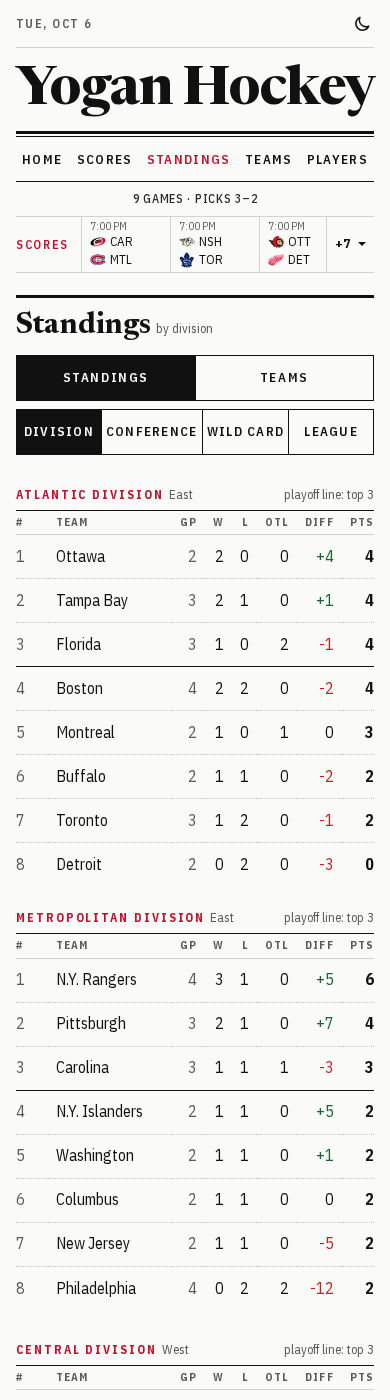
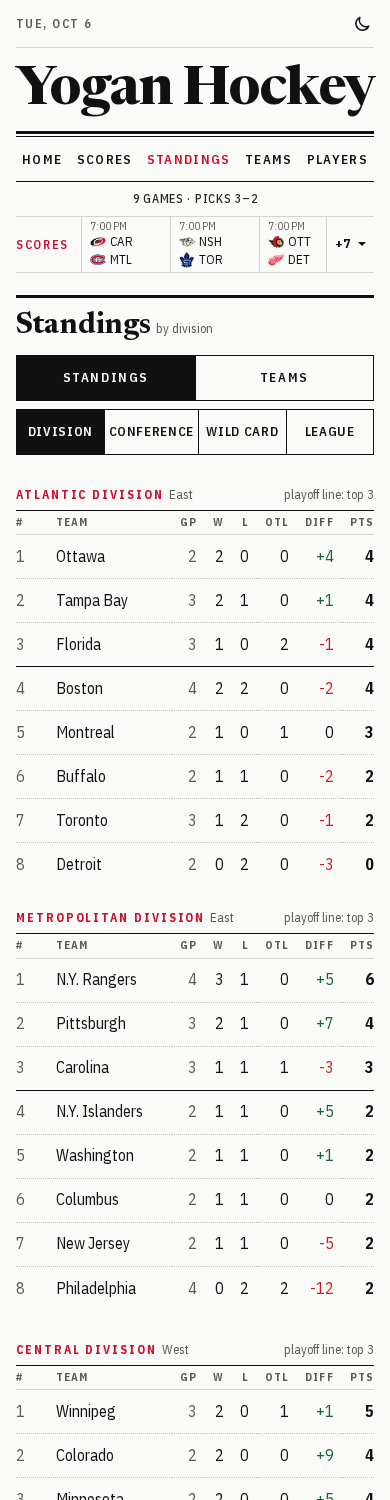
After Home: #171's type tokens, no tint on a live row, a headline's mark, the Scores stamp's line held, four tabs in 360px (#173)
- components/agate-type.ts is gone: the team's name is text-headline, an empty state text-prose, the red line sectionLabel.
- LedgerRow live marks the row and fills nothing; the routes' bg-transparent overrides are gone.
- TeamMark size="headline" (0.72em, on the capitals' line); size="header" is unchanged.
- ScoresTitle is the Scores header in the page and its placeholder: the "updated" line is there on a phone before the socket speaks.
- The standings' view tabs fit a 360px phone.
- The team's heart ends on the column's edge.
- agate-routes.mjs: all four standings views, a 360px check, sixteen shots kept and the rest to a scratch directory.

diff --git a/apps/web/components/scoreboard/live-scores.tsx b/apps/web/components/scoreboard/live-scores.tsx
@@ -7,7 +7,6 @@ import { slateDay } from "../../lib/game-time";
 import { pickNote } from "../../lib/picks";
 import { slateSections } from "../../lib/scoreboard-view";
 import { useFavorites } from "../../lib/use-favorites";
-import { PROSE } from "../agate-type";
 import { LocalTime } from "../local-time";
 import { GameLedger } from "./game-ledger";
 import { useScoreboard } from "./scoreboard-provider";
@@ -35,6 +34,30 @@ function Games({ title, games, picks }: { title: string; games: ScoreboardGame[]
 }
 
 /**
+ * The page's title, with the day's count and when the Scoreboard last heard from ESPN. On a phone
+ * the "updated" stamp has a line of its own under the title, and the line is there before there
+ * is anything to put on it: the placeholder (`LiveSkeleton`) draws this with nothing given, so
+ * the page does not move when the socket first speaks.
+ */
+export function ScoresTitle({ count, heardAt }: { count?: string; heardAt?: string | null }) {
+  return (
+    <PageHeader
+      title="Live scores"
+      count={count || undefined}
+      className="max-md:[&>[data-slot=page-aside]]:w-full"
+    >
+      <p className="font-quiet text-aside max-md:min-h-[1lh]">
+        {heardAt && (
+          <>
+            updated <LocalTime at={heardAt} show="clock" />
+          </>
+        )}
+      </p>
+    </PageHeader>
+  );
+}
+
+/**
  * `/nhl/live`: today's games by where each stands, kept current by the Scoreboard socket. `picks`
  * is as old as the page's last render, so a "pick pending" is checked against the game's status.
  */
@@ -49,13 +72,7 @@ export function LiveScores({ picks = {} }: { picks?: Picks }) {
 
   return (
     <>
-      <PageHeader title="Live scores" count={summary.join(", ")}>
-        {heardAt && (
-          <p className="font-quiet text-aside">
-            updated <LocalTime at={heardAt} show="clock" />
-          </p>
-        )}
-      </PageHeader>
+      <ScoresTitle count={summary.join(", ")} heardAt={heardAt} />
       <Games title="In progress" games={sections.live} picks={picks} />
       <Games title="Upcoming" games={sections.upcoming} picks={picks} />
       <Games title="Final" games={sections.final} picks={picks} />
@@ -64,7 +81,7 @@ export function LiveScores({ picks = {} }: { picks?: Picks }) {
         <Section>
           {/* Without a date the Scoreboard has not answered yet, which is not a day off. */}
           <SectionHeader title={date == null ? "Scores unavailable" : "No games today"} />
-          <p className={`py-2 ${PROSE}`}>
+          <p className="py-2 font-serif text-note text-prose">
             {date == null
               ? "Today's games could not be read. They appear here as soon as they can be."
               : "Nothing is on the NHL's slate. Scores appear here as soon as there is a game."}

diff --git a/apps/web/components/team/team-header.tsx b/apps/web/components/team/team-header.tsx
@@ -7,10 +7,9 @@ import {
   LedgerHead,
   LedgerRow,
 } from "@yogan-hockey/ui/components/ledger";
-import { Section } from "@yogan-hockey/ui/components/section";
+import { Section, sectionLabel } from "@yogan-hockey/ui/components/section";
 import type { ReactNode } from "react";
 import { teamPlace } from "../../lib/team-page";
-import { HEADLINE } from "../agate-type";
 import { TeamMark } from "../team-mark";
 import { EmptyLedger } from "./empty-ledger";
 
@@ -35,7 +34,7 @@ export function TeamHeader({
   return (
     <Section>
       <header data-slot="team-header" className="border-rule border-t-3 pt-3.5">
-        <p className="font-label text-kicker text-tag uppercase tracking-label">
+        <p className={sectionLabel}>
           {/* A phone breaks the line between two of these, never inside one. */}
           {place.flatMap((part, index) => [
             <span key={part} className="whitespace-nowrap">
@@ -47,18 +46,9 @@ export function TeamHeader({
         </p>
         {/* The heart stays at the end of the first line when a phone wraps the name. */}
         <div className="mt-3 flex items-start justify-between gap-4">
-          <h1 className={HEADLINE}>
-            {/*
-              The one place a team's mark is drawn on its page (HANDOFF.md, question 3). The
-              header's mark is 20px, set for a 13px title; beside a headline it is the height of
-              the capitals and stands on their line.
-            */}
-            <TeamMark
-              teamId={team.id}
-              size="header"
-              eager
-              className="my-0! mr-[0.3em] size-[0.72em]! align-[-0.04em]!"
-            />
+          <h1 className="text-balance font-serif font-strong text-headline [font-variation-settings:'opsz'_60]">
+            {/* The one place a team's mark is drawn on its page (HANDOFF.md, question 3). */}
+            <TeamMark teamId={team.id} size="headline" eager className="mr-[0.3em]" />
             {team.name}
           </h1>
           {action}

diff --git a/apps/web/app/nhl/teams/[id]/layout.tsx b/apps/web/app/nhl/teams/[id]/layout.tsx
@@ -1,6 +1,5 @@
 import type { Metadata } from "next";
 import type { ReactNode } from "react";
-import { MORE } from "../../../../components/agate-type";
 import { FavoriteHeart } from "../../../../components/favorites/favorite-heart";
 import { Link } from "../../../../components/link";
 import { ScoreboardGate } from "../../../../components/scoreboard/scoreboard-provider";
@@ -59,14 +58,15 @@ export default async function TeamLayout({ params, children }: Props) {
         <TeamHeader
           detail={detail}
           standing={standing}
-          // Not squeezed by a long name, which would cost its reach a pixel, and 8px in from the
-          // column's edge.
+          // Not squeezed by a long name, which would cost its reach a pixel. It ends on the
+          // column's edge, where the rules end and a roster's hearts are; its reach runs 8px
+          // into the gutter.
           action={
             <FavoriteHeart
               kind="team"
               id={detail.team.id}
               name={detail.team.name}
-              className="mr-2 shrink-0"
+              className="shrink-0"
             />
           }
         />
@@ -82,7 +82,7 @@ export default async function TeamLayout({ params, children }: Props) {
         {children}
       </div>
       {/* The foot of the page on every tab, as the player page has "back to players". */}
-      <p className={MORE}>
+      <p className="font-label text-small uppercase tracking-head">
         <Link href="/nhl" className="tap-target underline">
           back to NHL
         </Link>

diff --git a/packages/ui/src/components/ledger.tsx b/packages/ui/src/components/ledger.tsx
@@ -80,11 +80,14 @@ function LedgerRow({
   cutoff = false,
   ...props
 }: ComponentProps<"tr"> & {
-  /** Tints the row: a game in progress. */
+  /**
+   * A game in progress (`data-live`). It draws nothing: the prototype never tints a live row,
+   * whose status says so in the one red (a `LiveMarker`).
+   */
   live?: boolean;
   /**
-   * Set it when the row holds a `ledgerRowLink`. It draws nothing more: every row is tinted
-   * under the pointer and is 44px tall on a phone, since a row that is not a link often has
+   * Does nothing, and is kept for the callers that still pass it: every row is tinted under the
+   * pointer and is 44px tall on a phone, a link or not, since a row that is not a link often has
    * one in a cell.
    */
   interactive?: boolean;
@@ -99,7 +102,6 @@ function LedgerRow({
       className={cn(
         "relative border-b last:border-b-0 hover:bg-highlight max-md:h-11",
         cutoff ? "border-rule border-solid" : "border-border border-dotted",
-        live && "bg-live-tint",
         className,
       )}
       {...props}
@@ -175,7 +177,7 @@ function LedgerDetail({
 
 /**
  * Classes for the link that makes a whole row clickable: put them on the link in the row's first
- * cell and set `interactive` on the `LedgerRow`. The link's own text stays the accessible name.
+ * cell. The row needs nothing set. The link's own text stays the accessible name.
  */
 const ledgerRowLink = "after:absolute after:inset-0 after:content-['']";
 

diff --git a/e2e/team.spec.ts b/e2e/team.spec.ts
@@ -75,13 +75,19 @@ test("a team's page shows each tab from a pasted URL, titled with the team's nam
         "6th in Atlantic Division",
       ]);
 
-      // It is the site's own file, loaded, and drawn at the capitals' height: 0.72 of 40px.
+      // It is the site's own file, loaded, and drawn at the capitals' height: 0.72 of the
+      // headline's size, which grows with the window (34 to 40px).
       const mark = header.locator("h1 [data-slot=team-mark] img").first();
       await expect(mark).toHaveJSProperty("complete", true);
       expect(await mark.evaluate((img: HTMLImageElement) => img.naturalWidth)).toBe(28);
+      const headline = await header
+        .getByRole("heading", { level: 1 })
+        .evaluate((h1) => Number.parseFloat(getComputedStyle(h1).fontSize));
+      expect(headline).toBeGreaterThanOrEqual(34);
+      expect(headline).toBeLessThanOrEqual(40);
       const box = await mark.boundingBox();
-      expect(box?.width).toBeCloseTo(28.8, 1);
-      expect(box?.height).toBeCloseTo(28.8, 1);
+      expect(box?.width).toBeCloseTo(headline * 0.72, 1);
+      expect(box?.height).toBeCloseTo(headline * 0.72, 1);
 
       // The Next Game card links to the scheduled game's page, at the visitor's own time.
       const next = rows(page, /^Next game/);

diff --git a/apps/web/components/team-mark.tsx b/apps/web/components/team-mark.tsx
@@ -5,12 +5,15 @@ import { TEAM_MARKS } from "../lib/team-marks.generated";
  * The box a mark is drawn in. It is the size it is whether its image has loaded, failed or does
  * not exist, and it never makes its line taller: 1.2em sits inside a line of its type (15.6px in
  * 13px type on a 20px line, 18px in a phone's 15 on 22), lowered so its middle is the capitals'
- * middle, and the 20px box gives back with a negative margin what it has over the line.
+ * middle, and the 20px box gives back with a negative margin what it has over the line. A
+ * headline's mark is sized by the headline.
  */
 const BOX: Record<TeamMarkSize, { px: number; className: string }> = {
   row: { px: 14, className: "size-[1.2em] align-[-0.24em]" },
   line: { px: 14, className: "size-[1.2em] align-[-0.24em]" },
   header: { px: 20, className: "-my-1 size-5 align-[-5px]" },
+  // In a headline: as tall as its capitals and standing on their line, so it adds nothing to it.
+  headline: { px: 28, className: "size-[0.72em] align-[-0.04em]" },
 };
 
 /**

diff --git a/apps/web/app/nhl/page.tsx b/apps/web/app/nhl/page.tsx
@@ -52,9 +52,10 @@ export default async function NhlPage({ searchParams }: Props) {
           {page.tab === "standings" && (
             <UrlTabs
               label="Standings view"
-              // Four views in a phone's width: each cell gives up most of its padding and a little tracking, or the last
-              // is off the edge of a strip nobody knows to scroll.
-              className="max-md:[&>a]:px-1 max-md:[&>a]:tracking-head"
+              // Four views in a phone's width: each cell gives up most of its padding and half its
+              // tracking, or the last is off the edge of a strip nobody knows to scroll. They fit
+              // a 360px phone with 18px over.
+              className="max-md:[&>a]:px-1 max-md:[&>a]:tracking-wider"
               link={Link}
               current={page.view}
               tabs={STANDINGS_VIEWS.map((view) => ({

diff --git a/apps/web/components/route-skeletons.tsx b/apps/web/components/route-skeletons.tsx
@@ -1,11 +1,8 @@
-import {
-  PageHeaderSkeleton,
-  SectionSkeleton,
-  SkeletonBar,
-} from "@yogan-hockey/ui/components/skeleton";
+import { SectionSkeleton, SkeletonBar } from "@yogan-hockey/ui/components/skeleton";
 import { PenaltyBoxSpace } from "./game/penalty-box";
 import { Rink } from "./game/rink";
 import { FIXED_GAME_COLUMNS, GAME_SCORE_CELL, GAME_TEXT_CELL } from "./scoreboard/game-ledger";
+import { ScoresTitle } from "./scoreboard/live-scores";
 
 /**
  * The placeholders of the live page and a game's page (#95), each drawn by its
@@ -42,7 +39,7 @@ export const SLATE_TABLE = "[&_[data-slot=ledger-detail]]:xl:hidden";
 export function LiveSkeleton() {
   return (
     <>
-      <PageHeaderSkeleton title="Live scores" />
+      <ScoresTitle />
       <SectionSkeleton
         label="Today's games"
         rows={SLATE_ROWS}

diff --git a/apps/web/app/nhl/teams/[id]/not-found.tsx b/apps/web/app/nhl/teams/[id]/not-found.tsx
@@ -1,6 +1,5 @@
 import { PageHeader } from "@yogan-hockey/ui/components/section";
 import type { Metadata } from "next";
-import { PROSE } from "../../../../components/agate-type";
 import { Link } from "../../../../components/link";
 import { nhlHref } from "../../../../lib/nhl-page";
 
@@ -11,7 +10,7 @@ export default function TeamNotFound() {
   return (
     <div>
       <PageHeader title="Team not found" count="404" />
-      <p className={`max-md:mt-3 ${PROSE}`}>
+      <p className="font-serif text-note text-prose max-md:mt-3">
         No team is kept at this address.{" "}
         <Link href={nhlHref({ tab: "teams", view: "division" })} className="font-strong underline">
           All teams

diff --git a/apps/web/lib/team-mark.ts b/apps/web/lib/team-mark.ts
@@ -17,9 +17,10 @@ type MarkFileSize = (typeof MARK_SIZES)[number];
 /**
  * How large a mark is drawn. `row` and `line` are 1.2 times the type they stand in: 15.6px beside
  * 13px type in a ledger row or the ticker, 18px beside a phone's 15px. `header` is 20px, beside a
- * page's title.
+ * page's title. `headline` stands in a serif headline (a team's name on its page) at the height
+ * of its capitals: 0.72 of the type, 24.5 to 28.8px.
  */
-export type TeamMarkSize = "row" | "line" | "header";
+export type TeamMarkSize = "row" | "line" | "header" | "headline";
 
 /**
  * Which file serves which pixel density, the first being the plain `src`. One list for every

diff --git a/apps/web/components/team/schedule-ledgers.tsx b/apps/web/components/team/schedule-ledgers.tsx
@@ -76,12 +76,7 @@ export function UpcomingLedger({
           </LedgerHead>
           <LedgerBody>
             {rows.map((row) => (
-              <LedgerRow
-                key={row.game.id}
-                live={row.game.status === "live"}
-                // As a slate's row: the red marker says it, and nothing is filled.
-                className="bg-transparent"
-              >
+              <LedgerRow key={row.game.id} live={row.game.status === "live"}>
                 <GameCells row={row} />
                 <LedgerCell numeric className="whitespace-nowrap">
                   {row.game.status === "live" ? (

diff --git a/apps/web/components/scoreboard/game-ledger.tsx b/apps/web/components/scoreboard/game-ledger.tsx
@@ -131,8 +131,7 @@ export function GameLedger({
           const hasPick = picked != null && picked !== false;
           const final = game.status === "final";
           return (
-            // Marked live and not tinted: the prototype says "live" in the one red and fills nothing.
-            <LedgerRow key={game.id} live={game.status === "live"} className="bg-transparent">
+            <LedgerRow key={game.id} live={game.status === "live"}>
               <LedgerCell className={GAME_TEXT_CELL}>
                 <Link href={gameHref(game)} className={ledgerRowLink}>
                   <span className="sr-only">
